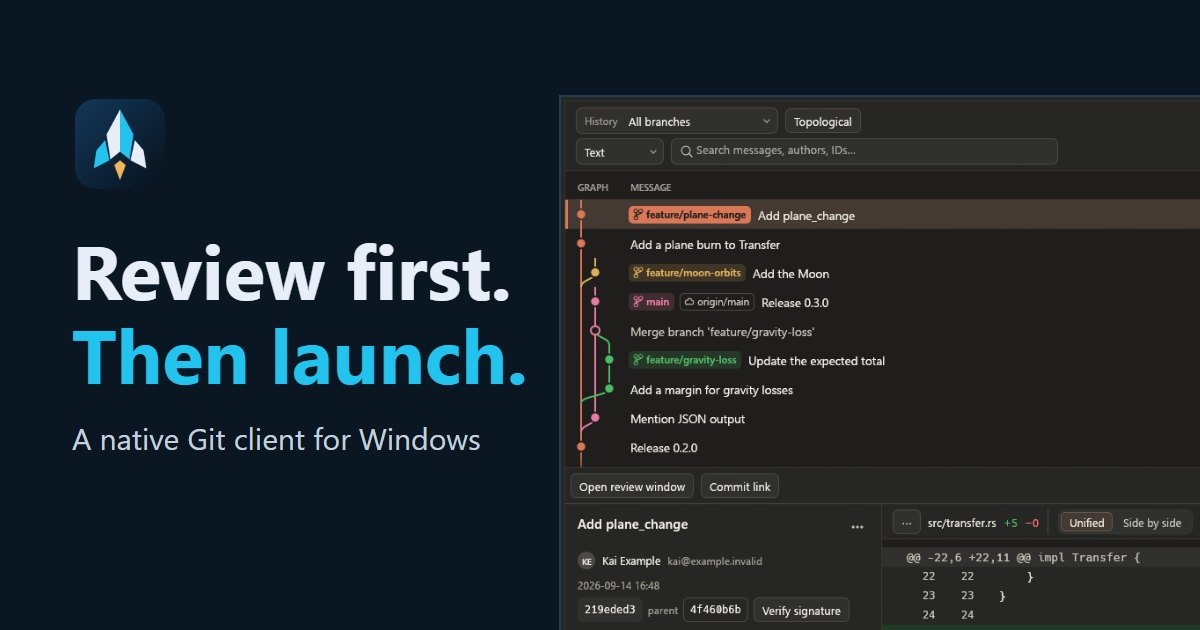
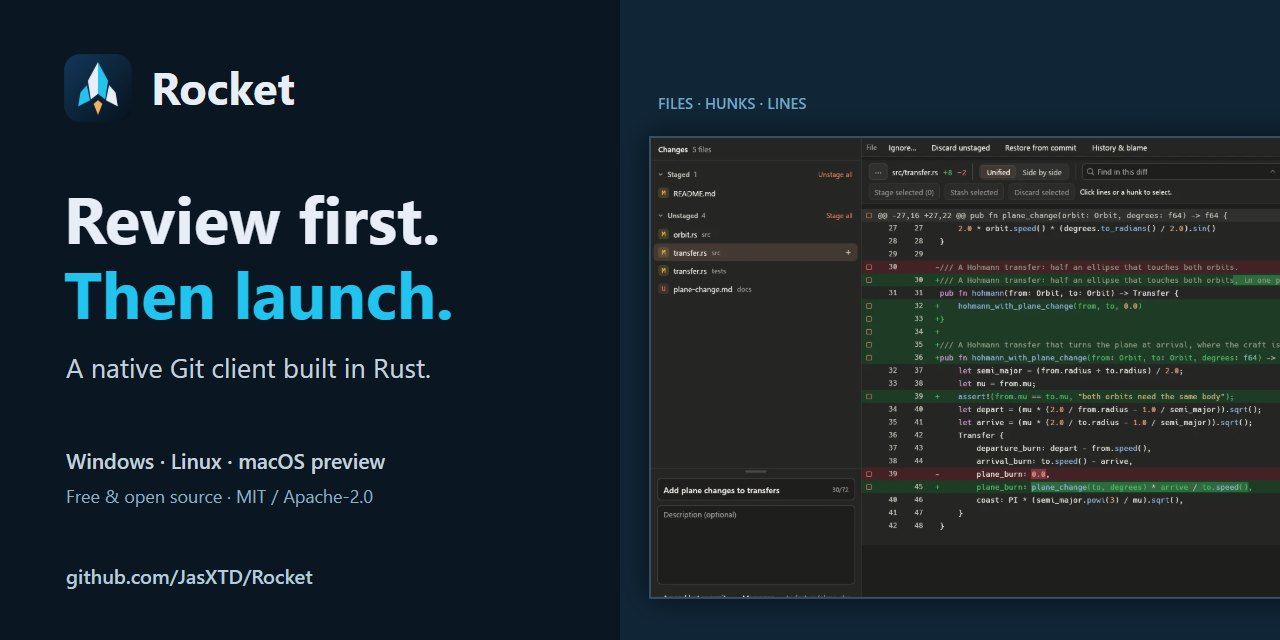
Prepare public launch artwork and documentation

diff --git a/tools/website/media.html b/tools/website/media.html
@@ -187,15 +187,36 @@ async function video(phone, bitrate, name) {
   await post('/save/' + name, mux(samples, avcC, W, H));
 }
 async function social() {
-  size(1200, 630);
-  g.fillStyle = '#0A1621'; g.fillRect(0, 0, 1200, 630);
-  const screen = images['commits-clay-dark'];
-  g.drawImage(screen, 230, 110, 1000, 690, 560, 96, 880, 607);
-  g.strokeStyle = '#243E56'; g.lineWidth = 2; g.strokeRect(560, 96, 880, 607);
-  g.drawImage(LOGO, 72, 96, 96, 96);
-  g.textBaseline = 'alphabetic'; g.fillStyle = '#E7EEF8'; g.font = '700 76px "Segoe UI", system-ui, sans-serif'; g.fillText('Review first.', 72, 300);
-  g.fillStyle = '#22C3EE'; g.fillText('Then launch.', 72, 384);
-  g.fillStyle = '#C3D1DF'; g.font = '400 30px "Segoe UI", system-ui, sans-serif'; g.fillText('A native Git client for Windows', 72, 450);
+  // GitHub's recommended 2:1 card. Only reviewed demo pixels and the project logo.
+  const screen = await load('/social-source.webp');
+  if (!LOGO || !screen) throw Error('Missing reviewed social-preview source');
+  size(1280, 640);
+  g.fillStyle = '#0A1621'; g.fillRect(0, 0, 1280, 640);
+  g.fillStyle = '#102536'; g.fillRect(620, 0, 660, 640);
+  g.drawImage(LOGO, 62, 52, 72, 72);
+  g.textBaseline = 'alphabetic'; g.fillStyle = '#E7EEF8';
+  g.font = '650 45px "Segoe UI", system-ui, sans-serif'; g.fillText('Rocket', 151, 105);
+  g.font = '700 65px "Segoe UI", system-ui, sans-serif'; g.fillText('Review first.', 64, 244);
+  g.fillStyle = '#22C3EE'; g.fillText('Then launch.', 64, 319);
+  g.fillStyle = '#C3D1DF'; g.font = '400 27px "Segoe UI", system-ui, sans-serif';
+  g.fillText('A native Git client built in Rust.', 66, 378);
+  g.font = '500 21px "Segoe UI", system-ui, sans-serif';
+  g.fillText('Windows · Linux · macOS preview', 66, 469);
+  g.fillStyle = '#91AFC4'; g.font = '400 18px "Segoe UI", system-ui, sans-serif';
+  g.fillText('Free & open source · MIT / Apache-2.0', 66, 503);
+  g.fillStyle = '#B6CBDC'; g.font = '500 20px "Segoe UI", system-ui, sans-serif';
+  g.fillText('github.com/JasXTD/Rocket', 66, 584);
+  g.fillStyle = '#74A7C4'; g.font = '600 15px "Segoe UI", system-ui, sans-serif';
+  g.fillText('FILES · HUNKS · LINES', 658, 109);
+  // Crop out the navigation sidebar; keep the real staging and diff controls.
+  const sx = Math.round(screen.width * 236 / 1920);
+  const sy = Math.round(screen.height * 116 / 990);
+  const sh = Math.round(screen.height * 784 / 990);
+  const dw = 990, dh = sh * dw / (screen.width - sx);
+  g.save(); g.shadowColor = '#0009'; g.shadowBlur = 28;
+  g.fillStyle = '#202020'; g.fillRect(650, 137, dw, dh);
+  g.restore(); g.drawImage(screen, sx, sy, screen.width - sx, sh, 650, 137, dw, dh);
+  g.strokeStyle = '#365062'; g.lineWidth = 2; g.strokeRect(650, 137, dw, dh);
   await post('/save/social-preview.jpg', await blob('image/jpeg', JPEG));
 }
 
@@ -203,6 +224,9 @@ async function social() {
   try {
     LOGO = await load('/logo.png');
     await document.fonts.load('700 88px "Segoe UI"'); await document.fonts.ready;
+    if (new URLSearchParams(location.search).get('social') === '1') {
+      await social(); await post('/done', ''); return;
+    }
     for (const [name, from, x, y, w, h, outW] of PICTURES) {
       const image = await shot(from);
       if (!image) { await log(`skipped ${name}: no ${from}.png`); continue; }
@@ -217,7 +241,7 @@ async function social() {
       await video(false, 3000000, 'demo-wide.mp4');
       await video(true, 1200000, 'demo-phone.mp4');
     }
-    if (images['commits-clay-dark']) await social();
+    await social();
     await post('/done', '');
   } catch (e) { await post('/fail', String(e && e.stack || e)); }
 })();

diff --git a/docs/get.html b/docs/get.html
@@ -42,7 +42,7 @@
   <div class="page-head">
     <h1>Get Rocket</h1>
     <p class="lead">Rocket 0.92.1. Download, extract into a new folder and open your repository.</p>
-    <div class="status"><svg viewBox="0 0 16 16" aria-hidden="true"><path d="M8 2.5l6 10.5H2zM8 6.5v3.2M8 11.4v.1"></path></svg><span>Portable packages are available on GitHub Releases. While the repository is private, sign in with an account that has access. The Mac build is a preview.</span></div>
+    <div class="status"><svg viewBox="0 0 16 16" aria-hidden="true"><path d="M8 2.5l6 10.5H2zM8 6.5v3.2M8 11.4v.1"></path></svg><span>Portable packages and checksums are available on GitHub Releases. Check the platform requirements below; the Mac build is a preview.</span></div>
   </div>
 
   <section class="downloads" aria-labelledby="h-downloads">

diff --git a/docs/wiki/App-updates.md b/docs/wiki/App-updates.md
@@ -7,10 +7,9 @@ Rocket checks public releases from
 starts. The request runs in the background. There is no periodic check or silent
 installation. Use **Help → Check for Updates** for another check.
 
-The 0.92.1 packages are also available for manual download. While the repository
-is private, its public update endpoint cannot see the release; use an authorized
-GitHub account to download it. The Mac preview ZIP cannot be installed through
-the updater because Developer ID signing and notarization are still pending.
+The 0.92.1 packages are also available for manual download from GitHub Releases.
+The Mac preview ZIP cannot be installed through the updater because Developer ID
+signing and notarization are still pending.
 
 When a version is available, the startup notice offers **View update** and
 **Not now**. Dismissing it leaves **Update available** in the status bar. That

diff --git a/README.md b/README.md
@@ -40,8 +40,8 @@ guide.
 > [!NOTE]
 > [Download Rocket 0.92.1](https://github.com/JasXTD/Rocket/releases/tag/v0.92.1):
 > Windows x64, Linux x64 (glibc 2.43+) and the Apple Silicon macOS 15+ preview.
-> The Mac preview is not Developer-ID-signed or notarized. Downloads require repository
-> access while Rocket is private. [Build from source](#build-and-run) is also available.
+> The Mac preview is not Developer-ID-signed or notarized.
+> [Build from source](#build-and-run) is also available.
 
 ## Features
 

diff --git a/tools/README.md b/tools/README.md
@@ -288,6 +288,7 @@ the hosted site. Edit the pages directly; the download page links to verified re
 ```powershell
 node tools/website/serve.cjs   # Preview at http://127.0.0.1:8792/Rocket/, the way Pages serves it
 node tools/website/check.cjs   # Links, anchors, alt text, nothing personal or external
+node tools/website/media.cjs --social   # Only the 1280x640 GitHub card; keep other media
 ```
 
 To refresh the pictures and video after the screens change, build `target/release`, reserve the
